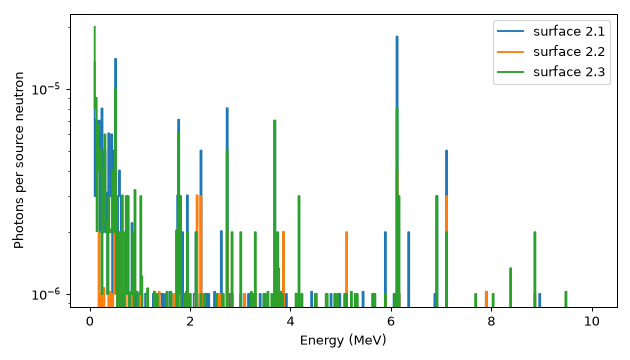
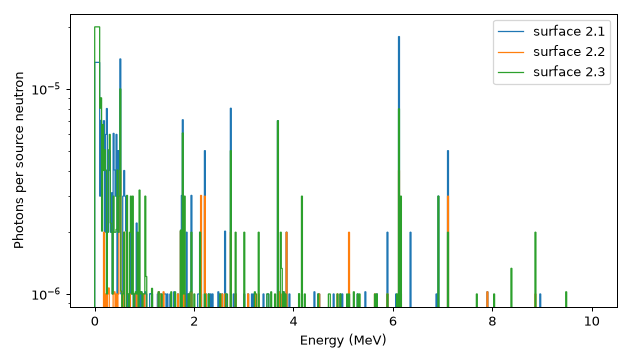
docs: getting_started tally image drawn as Plot draws it; cli_check_unparsed.svg regenerated

diff --git a/docs/make_images.py b/docs/make_images.py
@@ -17,6 +17,7 @@ import matplotlib
 matplotlib.use('Agg')
 
 import matplotlib.pyplot
+import numpy
 import pyvista
 import rich.console
 import rich.text
@@ -129,7 +130,8 @@ def getting_started_tally() -> None:
 
     figure, axis = matplotlib.pyplot.subplots(figsize=(7, 4))
     for (surface, facet), rows in spectra.groupby(['surface', 'facet']):
-        axis.step(rows['bins'], rows['counts'], where='pre', label=f'surface {surface}.{facet}')
+        edges = numpy.concatenate(([0.0], rows['bins']))  # the bins are upper edges; the first bin starts at 0
+        axis.stairs(rows['counts'], edges, label=f'surface {surface}.{facet}')
     axis.set_yscale('log')
     axis.set_xlabel('Energy (MeV)')
     axis.set_ylabel('Photons per source neutron')
@@ -156,6 +158,8 @@ def cli_check() -> None:
     """``pymcnp check`` with exit code 0, ``pymcnp check --diff`` with exit code 1, and ``pymcnp check`` with exit code 3."""
 
     cli('cli_check_ok.svg', 'check', 'example_00.inp')
+    # ``files/inp/todo_13.inp`` has a lattice card PyMCNP cannot parse yet (line 5, ``2(3)`` in a ``fill`` array), the usual case: a valid card of
+    # MCNP that PyMCNP does not know; ``check`` names the line.
     cli('cli_check_unparsed.svg', 'check', 'todo_13.inp', cwd=FILES / 'inp')
     with tempfile.TemporaryDirectory() as directory:
         directory = pathlib.Path(directory)

diff --git a/docs/source/getting_started.md b/docs/source/getting_started.md
@@ -166,6 +166,7 @@ The dataframe goes straight into `matplotlib`:
 
 ```python
 import matplotlib.pyplot
+import numpy
 import pymcnp
 
 outp, _ = pymcnp.Outp.from_file('example_00.outp')
@@ -174,7 +175,8 @@ spectra = tally.groupby(['surface', 'facet', 'bins'], as_index=False)['counts'].
 
 figure, axis = matplotlib.pyplot.subplots(figsize=(7, 4))
 for (surface, facet), rows in spectra.groupby(['surface', 'facet']):
-    axis.step(rows['bins'], rows['counts'], where='pre', label=f'surface {surface}.{facet}')
+    edges = numpy.concatenate(([0.0], rows['bins']))  # the bins are upper edges; the first bin starts at 0
+    axis.stairs(rows['counts'], edges, label=f'surface {surface}.{facet}')
 axis.set_yscale('log')
 axis.set_xlabel('Energy (MeV)')
 axis.set_ylabel('Photons per source neutron')
